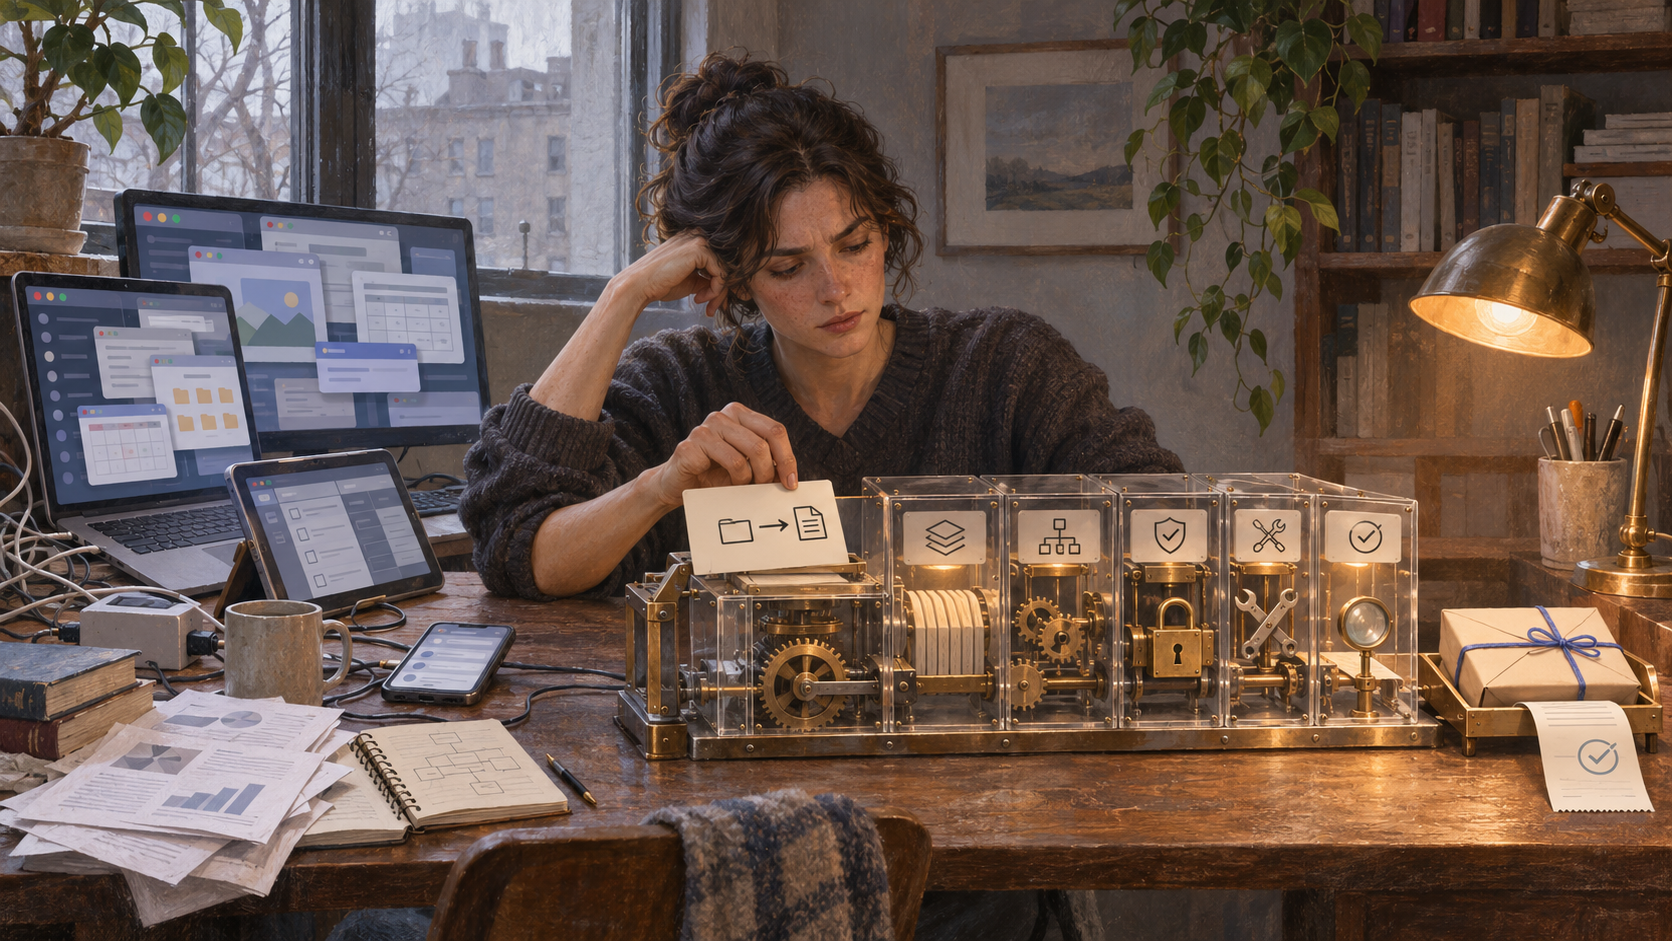
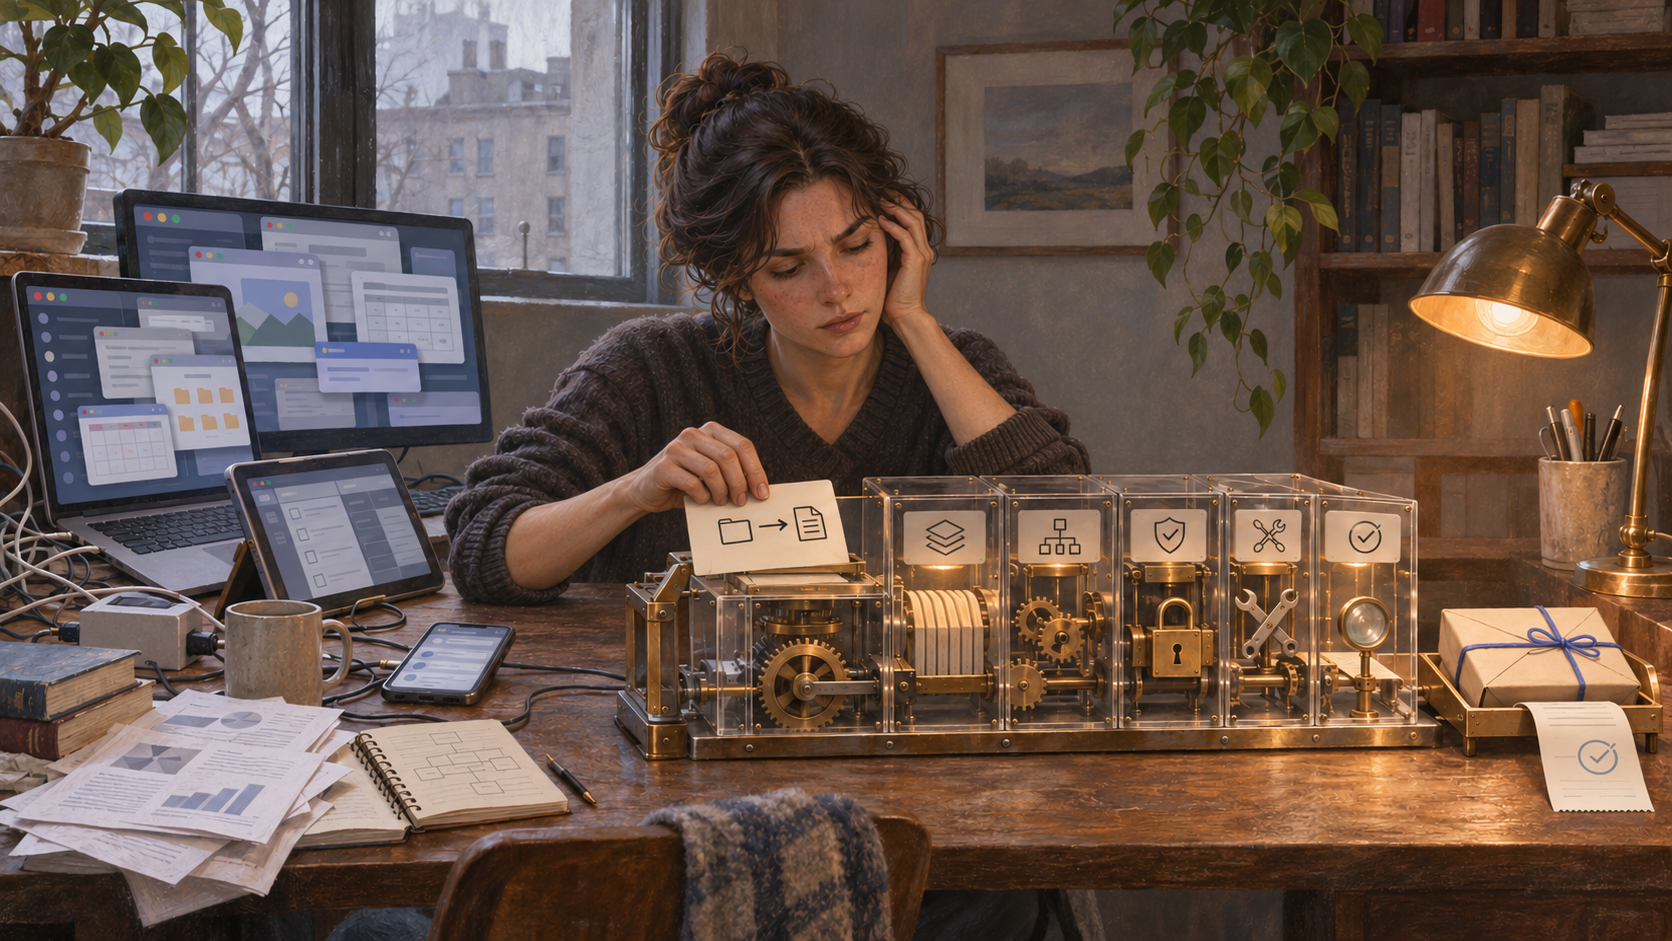
Publish three opinion essays and correct hero anatomy

diff --git a/_posts/2026-11-04-internet-keeps-reinventing-television.md b/_posts/2026-11-04-internet-keeps-reinventing-television.md
@@ -2,19 +2,32 @@
 layout: post
 title: "The Internet Keeps Reinventing Television"
 subtitle: "And every time it does, we find somewhere new to be unserious."
+date: 2026-11-04 19:10:00 -0600
 author: "Chinmay Arora"
 description: "Internet entertainment begins loose, strange, and intimate. Then audiences arrive, money follows, studios form, and the medium rediscovers television—while the weirdness escapes somewhere else."
 summary: "This is not a literal cycle and television never fully disappears. It is a recurring lifecycle: informal creator formats attract an audience, professionalize, and become repeatable programming. The question is where experimentation goes after the format hardens."
 tags: [Internet Culture, Television, YouTube, Streaming, Creator Economy, Opinion]
 categories: [Opinion, Media Culture]
 content_type: "opinion"
-content_label: "Working Draft"
+content_label: "Opinion Essay"
+search_phrase: "internet entertainment lifecycle creators studios television"
 reading_time: "8 min read"
+permalink: /blog/internet-keeps-reinventing-television/
+canonical_url: "https://app.chinmayarora.com/blog/internet-keeps-reinventing-television/"
+og_image: "/assets/images/og-internet-reinventing-television.png"
+image_alt: "An improvised phone sketch expands through a small crew into a television-scale studio while another creator finds a new corner to experiment."
 lang: "en"
 toc: true
-draft: true
-editorial_status: "Working opinion draft. Verify named examples and add primary sources before publication."
+featured: false
+draft: false
+schema_type: "Article"
+keywords: "internet television, YouTube, livestreaming, creator economy, entertainment formats, media lifecycle"
+last_modified_at: 2026-11-04
 ---
+
+![An improvised phone sketch expands through a small crew into a television-scale studio while another creator finds a new corner to experiment.](/assets/images/og-internet-reinventing-television.png)
+
+*A loose experiment acquires a crew, a set, and a repeatable format. At the edge of the studio, somebody starts making the next strange thing. Illustration generated for this essay.*
 
 ## The television in my hand
 

diff --git a/_posts/2026-11-04-culture-shock-social-shock.md b/_posts/2026-11-04-culture-shock-social-shock.md
@@ -2,19 +2,32 @@
 layout: post
 title: "I Didn't Have Culture Shock. I Had Social Shock."
 subtitle: "Off the boat, apparently."
+date: 2026-11-04 19:20:00 -0600
 author: "Chinmay Arora"
 description: "I moved from Delhi expecting an unfamiliar culture. I found references I already understood and social rooms in which nobody understood me. Cultural fluency was not the same as belonging."
 summary: "The internet can make two places culturally adjacent without making their people socially legible to one another. This is a personal essay about moving from an urban, Westernized Indian background and discovering that recognition, history, and access do not travel with cultural fluency."
 tags: [Immigration, India, Belonging, Identity, Internet Culture, Personal Essay]
 categories: [Opinion, Personal Essay]
 content_type: "opinion"
-content_label: "Working Draft"
+content_label: "Personal Essay"
+search_phrase: "Indian immigrant cultural fluency social belonging"
 reading_time: "9 min read"
+permalink: /blog/culture-shock-social-shock/
+canonical_url: "https://app.chinmayarora.com/blog/culture-shock-social-shock/"
+og_image: "/assets/images/og-culture-shock-social-shock.png"
+image_alt: "A young Indian man recognizes the music, sport, and humor in a crowded Western bar but stands between groups with established histories."
 lang: "en"
 toc: true
-draft: true
-editorial_status: "Working personal essay. Preserve the urban, Westernized Delhi specificity; do not present it as a universal Indian immigrant experience."
+featured: false
+draft: false
+schema_type: "Article"
+keywords: "Indian immigrant, culture shock, social belonging, Delhi, identity, immigration, personal essay"
+last_modified_at: 2026-11-04
 ---
+
+![A young Indian man recognizes the music, sport, and humor in a crowded Western bar but stands between groups with established histories.](/assets/images/og-culture-shock-social-shock.png)
+
+*He recognizes the match, the song, and the joke. What has not travelled with him is shared history. Illustration generated for this essay.*
 
 ## I knew the joke
 

diff --git a/_posts/2026-11-04-too-many-lives-to-live.md b/_posts/2026-11-04-too-many-lives-to-live.md
@@ -1,19 +1,32 @@
 ---
 layout: post
 title: "Too Many Lives to Live, Not Enough Time to Figure Out Which One"
+date: 2026-11-04 19:15:00 -0600
 author: "Chinmay Arora"
 description: "The freedom I wanted as a child arrived with calendars, consequences, and the knowledge that choosing one life means leaving several others untouched."
 summary: "Your mid-twenties are sold as the years when you build an adult life. They are also the years when you are still discovering what that life should contain. Freedom expands at the same moment time begins to feel expensive."
 tags: [Twenties, Identity, India, Ambition, Choice, Personal Essay]
 categories: [Opinion, Personal Essay]
 content_type: "opinion"
-content_label: "Working Draft"
+content_label: "Personal Essay"
+search_phrase: "twenties freedom choice unlived lives personal essay"
 reading_time: "8 min read"
+permalink: /blog/too-many-lives-to-live/
+canonical_url: "https://app.chinmayarora.com/blog/too-many-lives-to-live/"
+og_image: "/assets/images/og-too-many-lives-to-live.png"
+image_alt: "A young Indian man ties his football boot in a sunlit apartment among a dusty guitar, unfinished laptop project, messages, and travel bag."
 lang: "en"
 toc: true
-draft: true
-editorial_status: "Working personal essay. Keep the experience specific; do not universalize childhood in India."
+featured: false
+draft: false
+schema_type: "Article"
+keywords: "twenties, freedom, choice, India, unlived lives, adulthood, personal essay"
+last_modified_at: 2026-11-04
 ---
+
+![A young Indian man ties his football boot in a sunlit apartment among a dusty guitar, unfinished laptop project, messages, and travel bag.](/assets/images/og-too-many-lives-to-live.png)
+
+*The guitar, project, messages, and travel bag remain in the room. Choosing football for one morning does not erase them. Illustration generated for this essay.*
 
 ## Saturday morning, four possible lives
 
